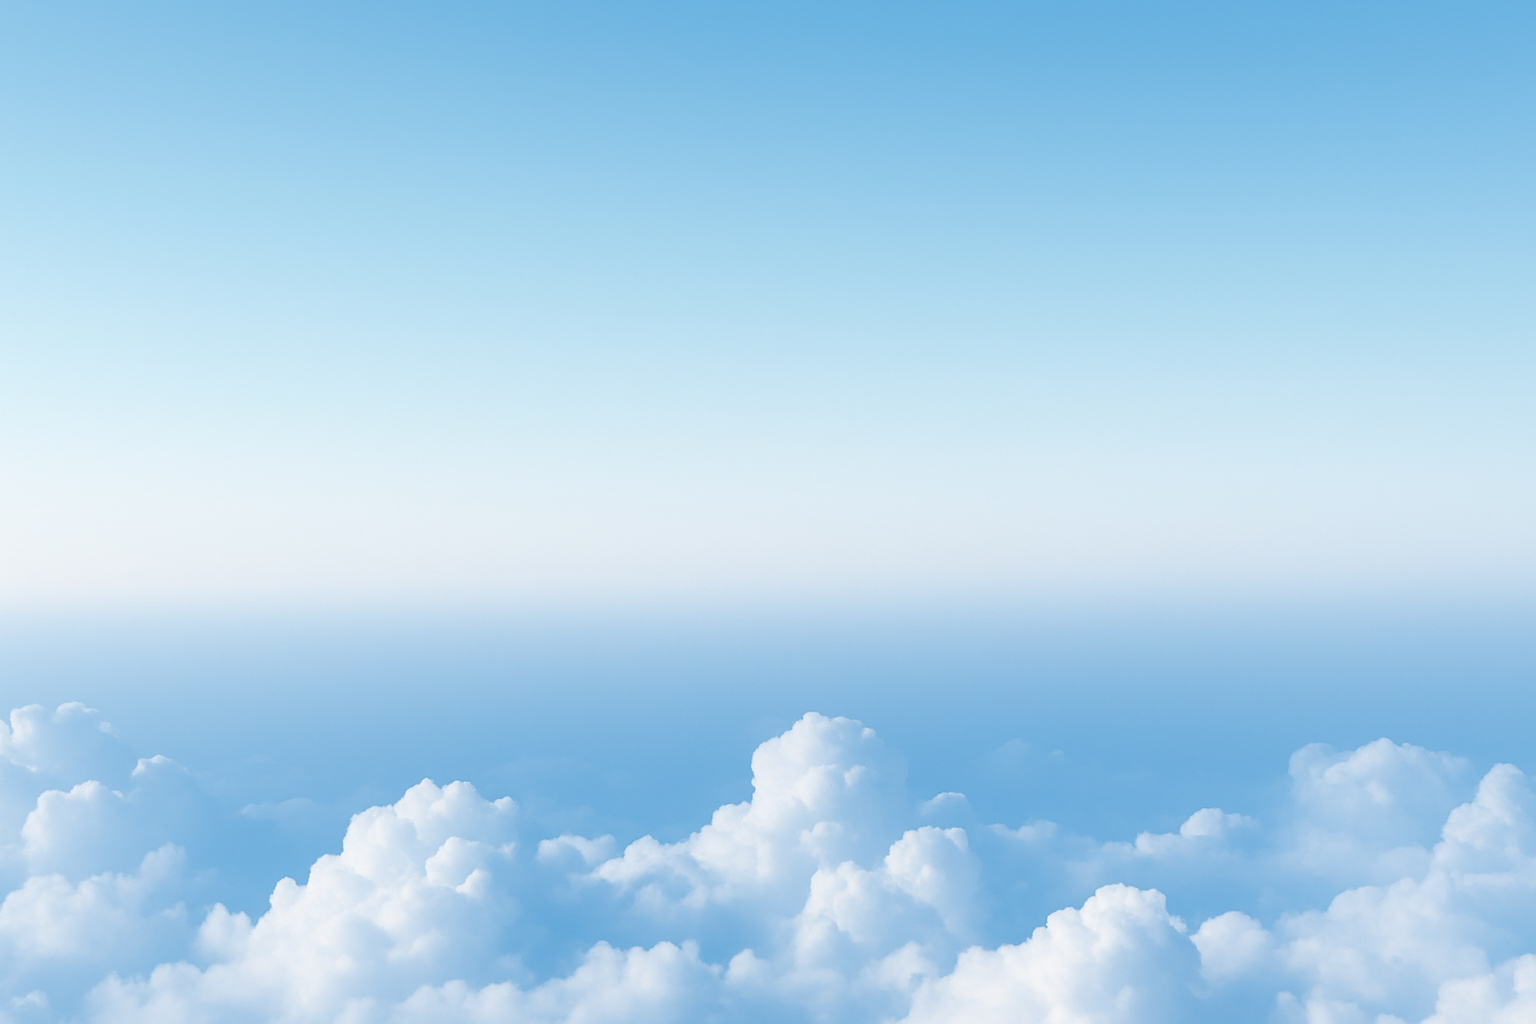
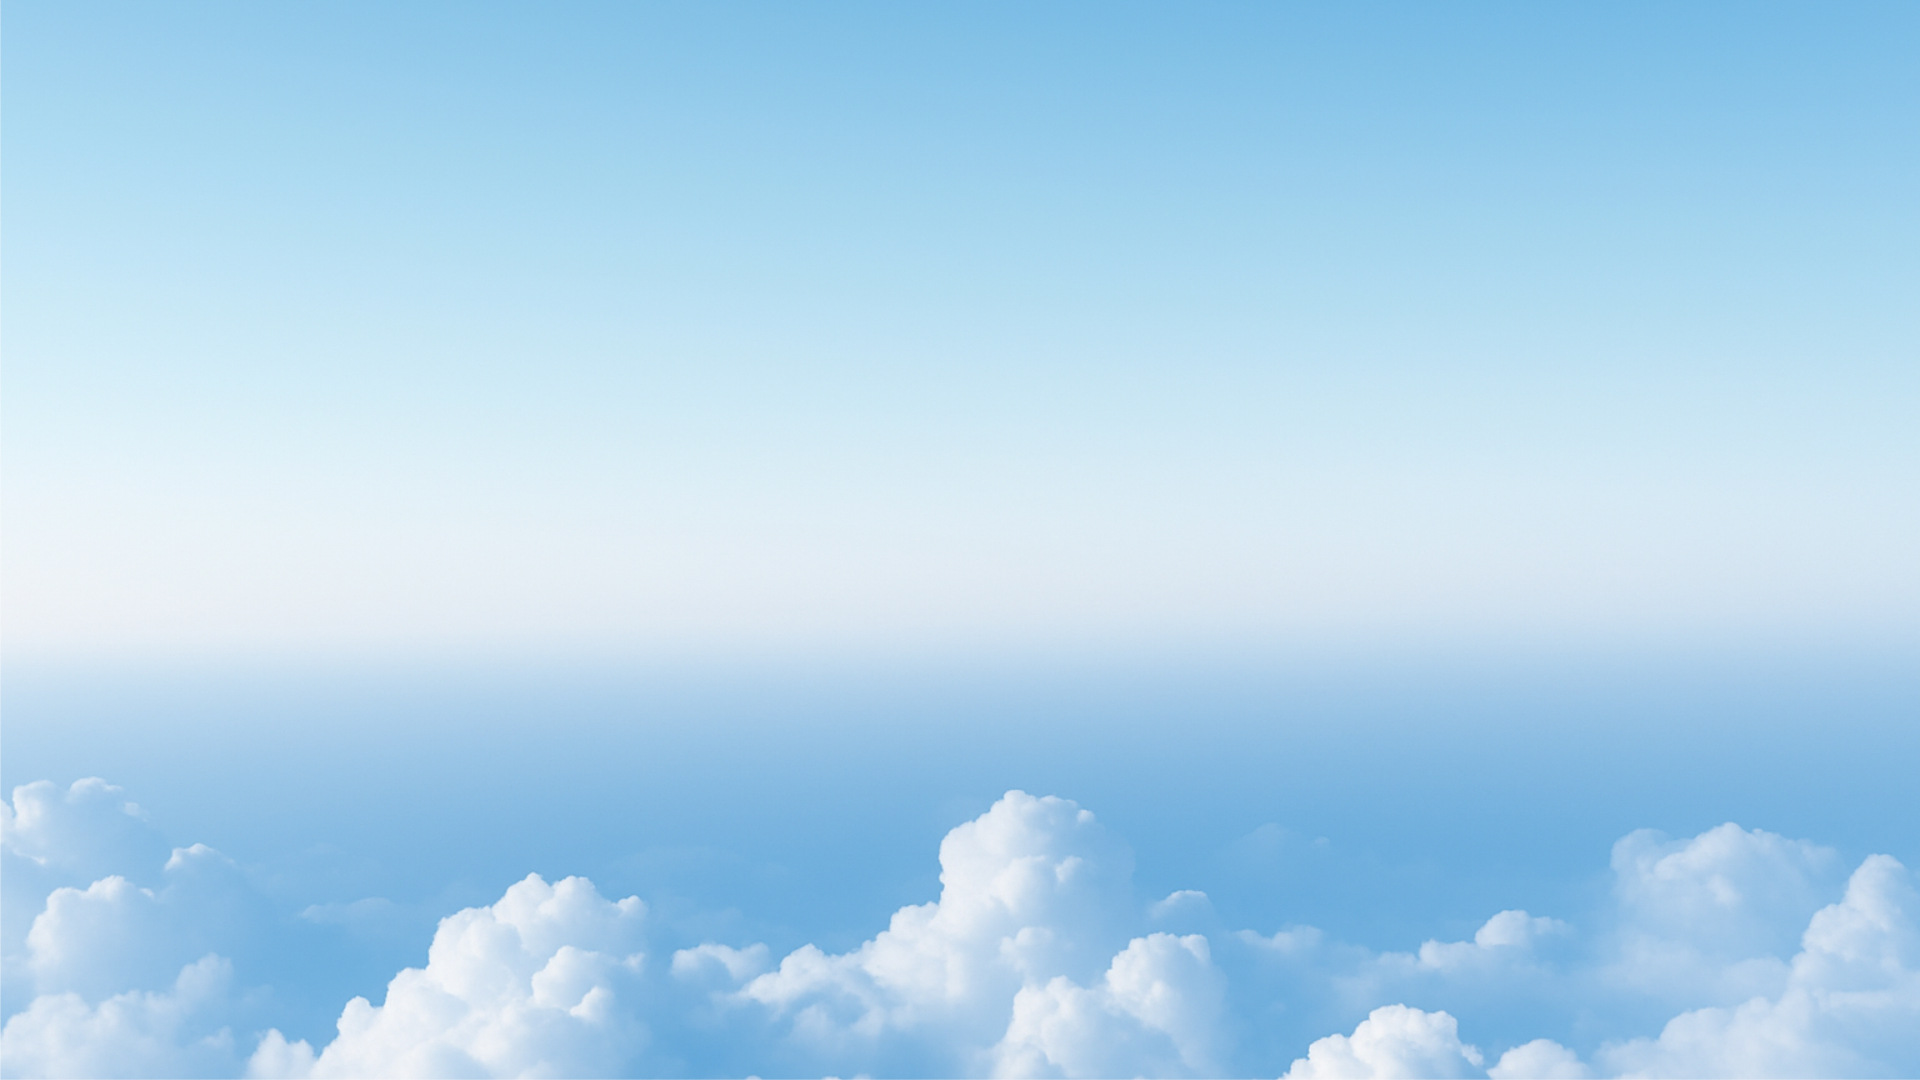
refactor: change directories and add some style scratch

Changed region(s): [[0.0, 0.6875, 1.0, 1.0]]

diff --git a/frontend/src/components/Header/index.tsx b/frontend/src/components/Header/index.tsx
@@ -1,8 +1,10 @@
 import style from "./style.module.css";
 import logo_h from "../../assets/icons/logo-h.png";
-import Input from "../Input";
+import { Link } from "react-router-dom";
 
 const Header = () => {
+  //Lógica para verificar se o usuário está logado ou não
+
   return (
     <header>
       <nav>
@@ -10,21 +12,12 @@ const Header = () => {
           <img src={logo_h} alt="logo" className={style.logo} />
         </div>
         <div className={style.items}>
-          <a href="">Início</a>
-          <a href="">Sobre</a>
-          <div className={style.nav_item}>
-            <a href="">Login</a>
-            <div className={style.item_dropdown}>
-              <form>
-                <Input placeholderText="Email" />
-                <Input placeholderText="Senha" />
-              </form>
-              <button>Entrar</button>
-              <span>
-                Novo aqui? <a href="">Cadastre-se</a>
-              </span>
-            </div>
-          </div>
+          <Link to="/">Início</Link>
+          <Link to="/about">Sobre</Link>
+          <Link to="/signin">Entrar</Link>
+          <Link className={style.signup_link} to="/signup">
+            Criar uma conta
+          </Link>
         </div>
       </nav>
     </header>

diff --git a/frontend/src/components/Header/style.module.css b/frontend/src/components/Header/style.module.css
@@ -2,8 +2,7 @@ header {
     width: calc(100% - 32px);
 
     display: flex;
-    justify-content: end;
-    padding: 1rem;
+    justify-content: center;
 
     position: fixed;
     top: 0;
@@ -26,12 +25,14 @@ header.scrolled {
 nav {
     width: 100%;
     max-width: 1610px;
-    transition: padding 0.3s ease;
 
     display: flex;
     align-items: center;
     justify-content: space-between;
-    gap: 0.6rem;
+    padding: 1rem;
+    gap: 2rem;
+
+    transition: padding 0.3s ease;
 }
 
 .logo_container {
@@ -46,27 +47,14 @@ nav {
 
 .items {
     display: flex;
+    align-items: center;
+    justify-content: space-between;
     gap: 1rem;
 }
 
-.nav_item {
-    display: flex;
-    flex-direction: column;
-}
+.signup_link {
+    padding: 6px;
 
-.item_dropdown {
-    display: none;
-    flex-direction: column;
-    gap: 0.5rem;
-
-    position: fixed;
-    padding: 1rem;
-
-
-
-    background-color: var(--color-grey-600);
-}
-
-.nav_item:hover .item_dropdown {
-    display: flex;
+    border-radius: 6px;
+    border: 1px solid var(--color-brand-100);
 }

diff --git a/frontend/src/routes/RoutesMain.tsx b/frontend/src/routes/RoutesMain.tsx
@@ -1,11 +1,14 @@
 import { Route, Routes } from "react-router-dom";
-import HomePage from "../pages/HomePage";
-import AboutPage from "../pages/AboutPage";
-import SignUpPage from "../pages/SignUpPage";
+import HomePage from "../pages/Home";
+import AboutPage from "../pages/About";
+import SignUpPage from "../pages/SignUp";
+import NotFoundPage from "../pages/NotFound";
 
 export const RoutesMain = () => {
   return (
     <Routes>
+      <Route path="*" element={<NotFoundPage />} />
+
       <Route path="/" element={<HomePage />} />
       <Route path="/about" element={<AboutPage />} />
       <Route path="/signup" element={<SignUpPage />} />

diff --git a/frontend/src/__tests__/routes/RoutesMain.spec.tsx b/frontend/src/__tests__/routes/RoutesMain.spec.tsx
@@ -1,8 +1,8 @@
 import { describe, expect, it } from "vitest";
 import { render, screen } from "@testing-library/react";
 import { createRoutesStub } from "react-router-dom";
-import PageHome from "../../pages/HomePage";
-import PageAbout from "../../pages/AboutPage";
+import PageHome from "../../pages/Home";
+import PageAbout from "../../pages/About";
 
 describe("React Router DOM", () => {
   it("path '/' should return main page", () => {

diff --git a/frontend/src/pages/SignUp/style.module.css b/frontend/src/pages/SignUp/style.module.css
@@ -3,7 +3,8 @@ main {
   width: 100%;
   display: flex;
 
-  background-image: url(../assets/images/backgroundHorizontal.png);
+  background-image: url(../../assets/images/backgroundHorizontal2.jpg);
+  background-repeat: round;
 }
 
 section {
@@ -44,6 +45,10 @@ form {
   display: flex;
   flex-direction: column;
   gap: 1rem;
+}
+
+.secondary_section {
+  width: 100%;
 }
 
 .secondary_container {

diff --git a/frontend/src/pages/SignUp/index.tsx b/frontend/src/pages/SignUp/index.tsx
@@ -1,6 +1,6 @@
-import style from "./SignUpPage.module.css";
-import Input from "../components/Input";
-import styleBtn from "../styles/button.module.css";
+import style from "./style.module.css";
+import Input from "../../components/Input";
+import styleBtn from "../../styles/button.module.css";
 
 const SignUpPage = () => {
   return (

diff --git a/frontend/src/pages/Home/style.module.css b/frontend/src/pages/Home/style.module.css
@@ -6,7 +6,7 @@
     justify-content: center;
     align-items: center;
 
-    background-image: url(../assets/images/backgroundHorizontal.png);
+    background-image: url(../../assets/images/backgroundHorizontal2.jpg);
     background-size: cover;
     /* background-color: var(--color-brand-300); */
 }

diff --git a/frontend/src/pages/Home/index.tsx b/frontend/src/pages/Home/index.tsx
@@ -1,5 +1,5 @@
-import styles from "./HomePage.module.css";
-import logo_solo from "../assets/icons/logo_solo.png";
+import styles from "./style.module.css";
+import logo_solo from "../../assets/icons/logo_solo.png";
 
 const PageHome = () => {
   return (

diff --git a/frontend/src/pages/NotFound/index.tsx b/frontend/src/pages/NotFound/index.tsx
@@ -1,0 +1,5 @@
+const NotFoundPage = () => {
+  return <h1>Not found</h1>;
+};
+
+export default NotFoundPage;
